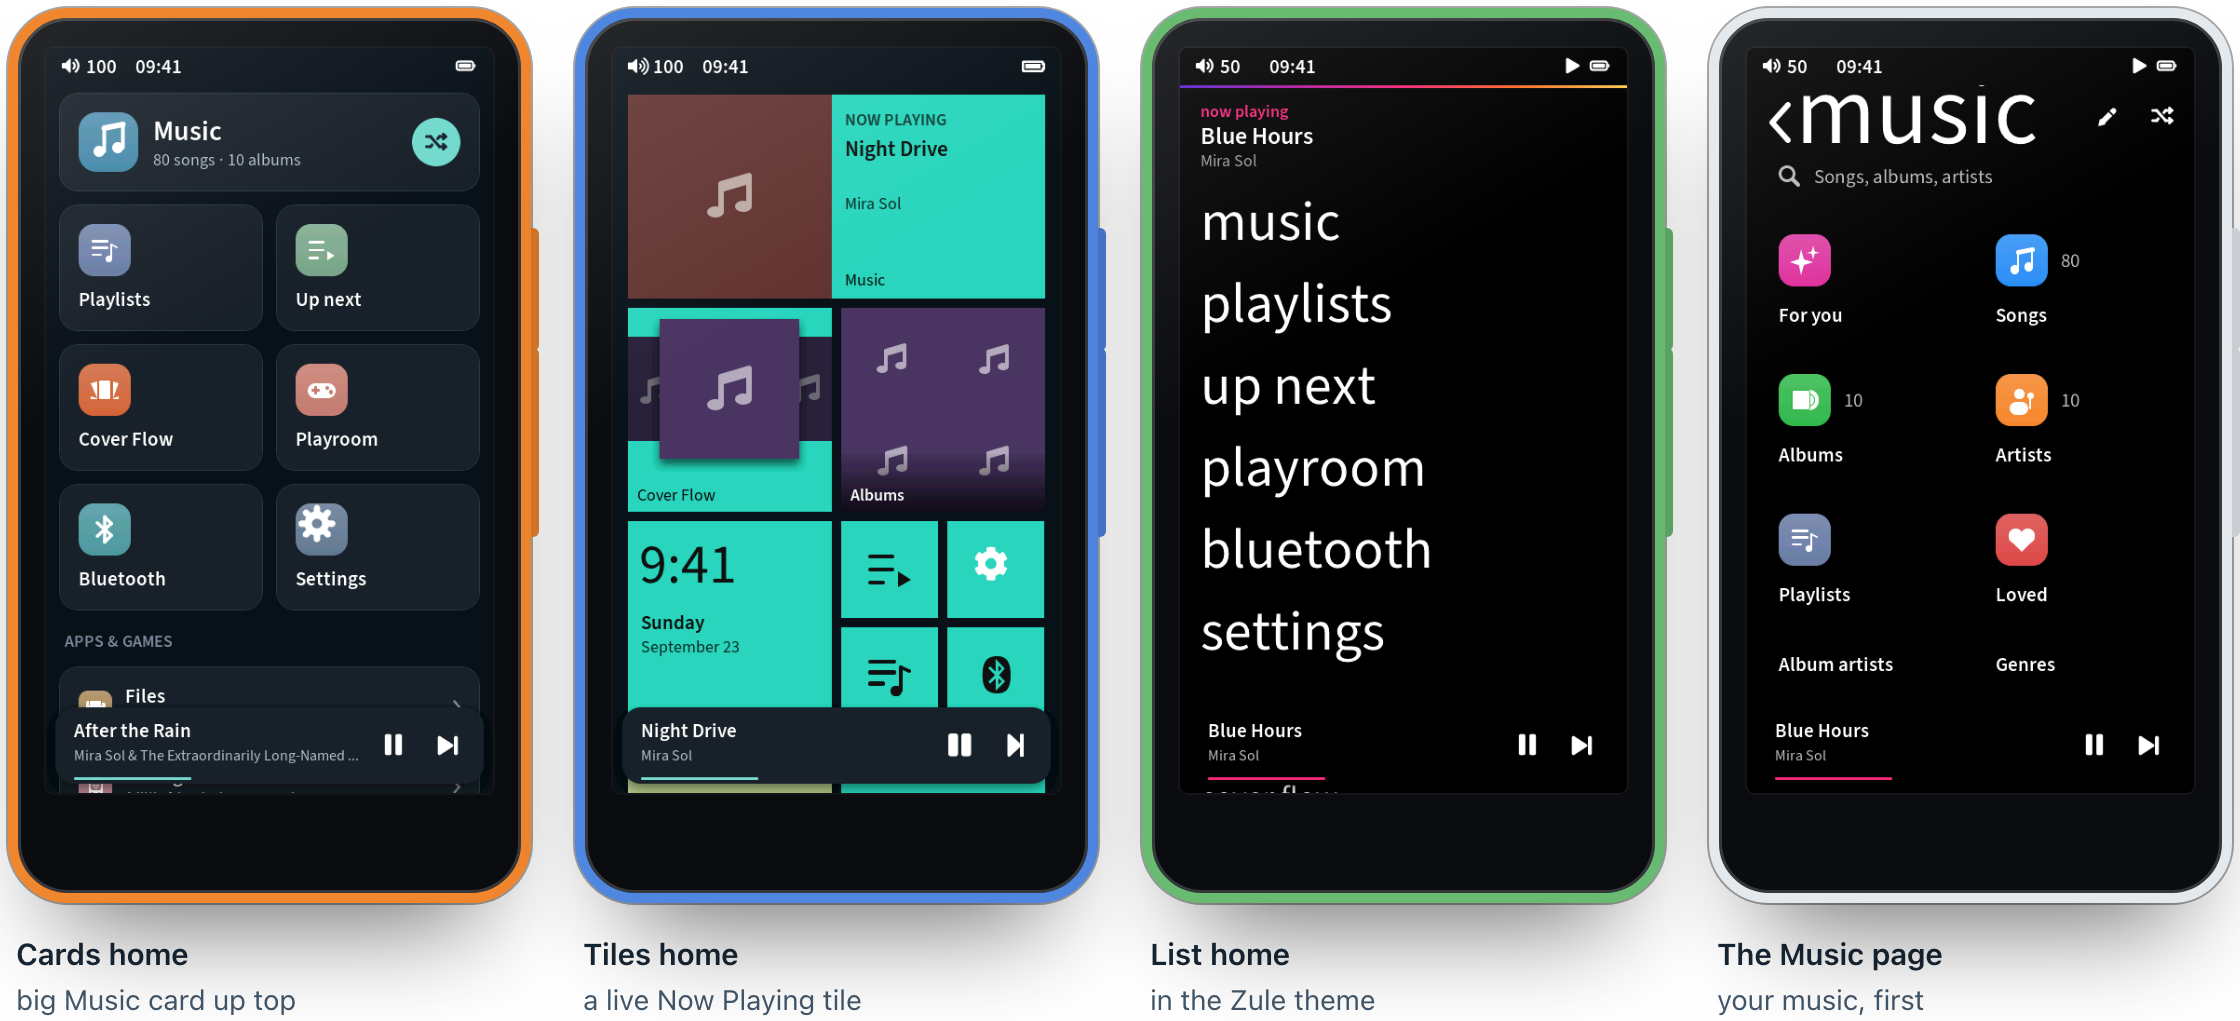
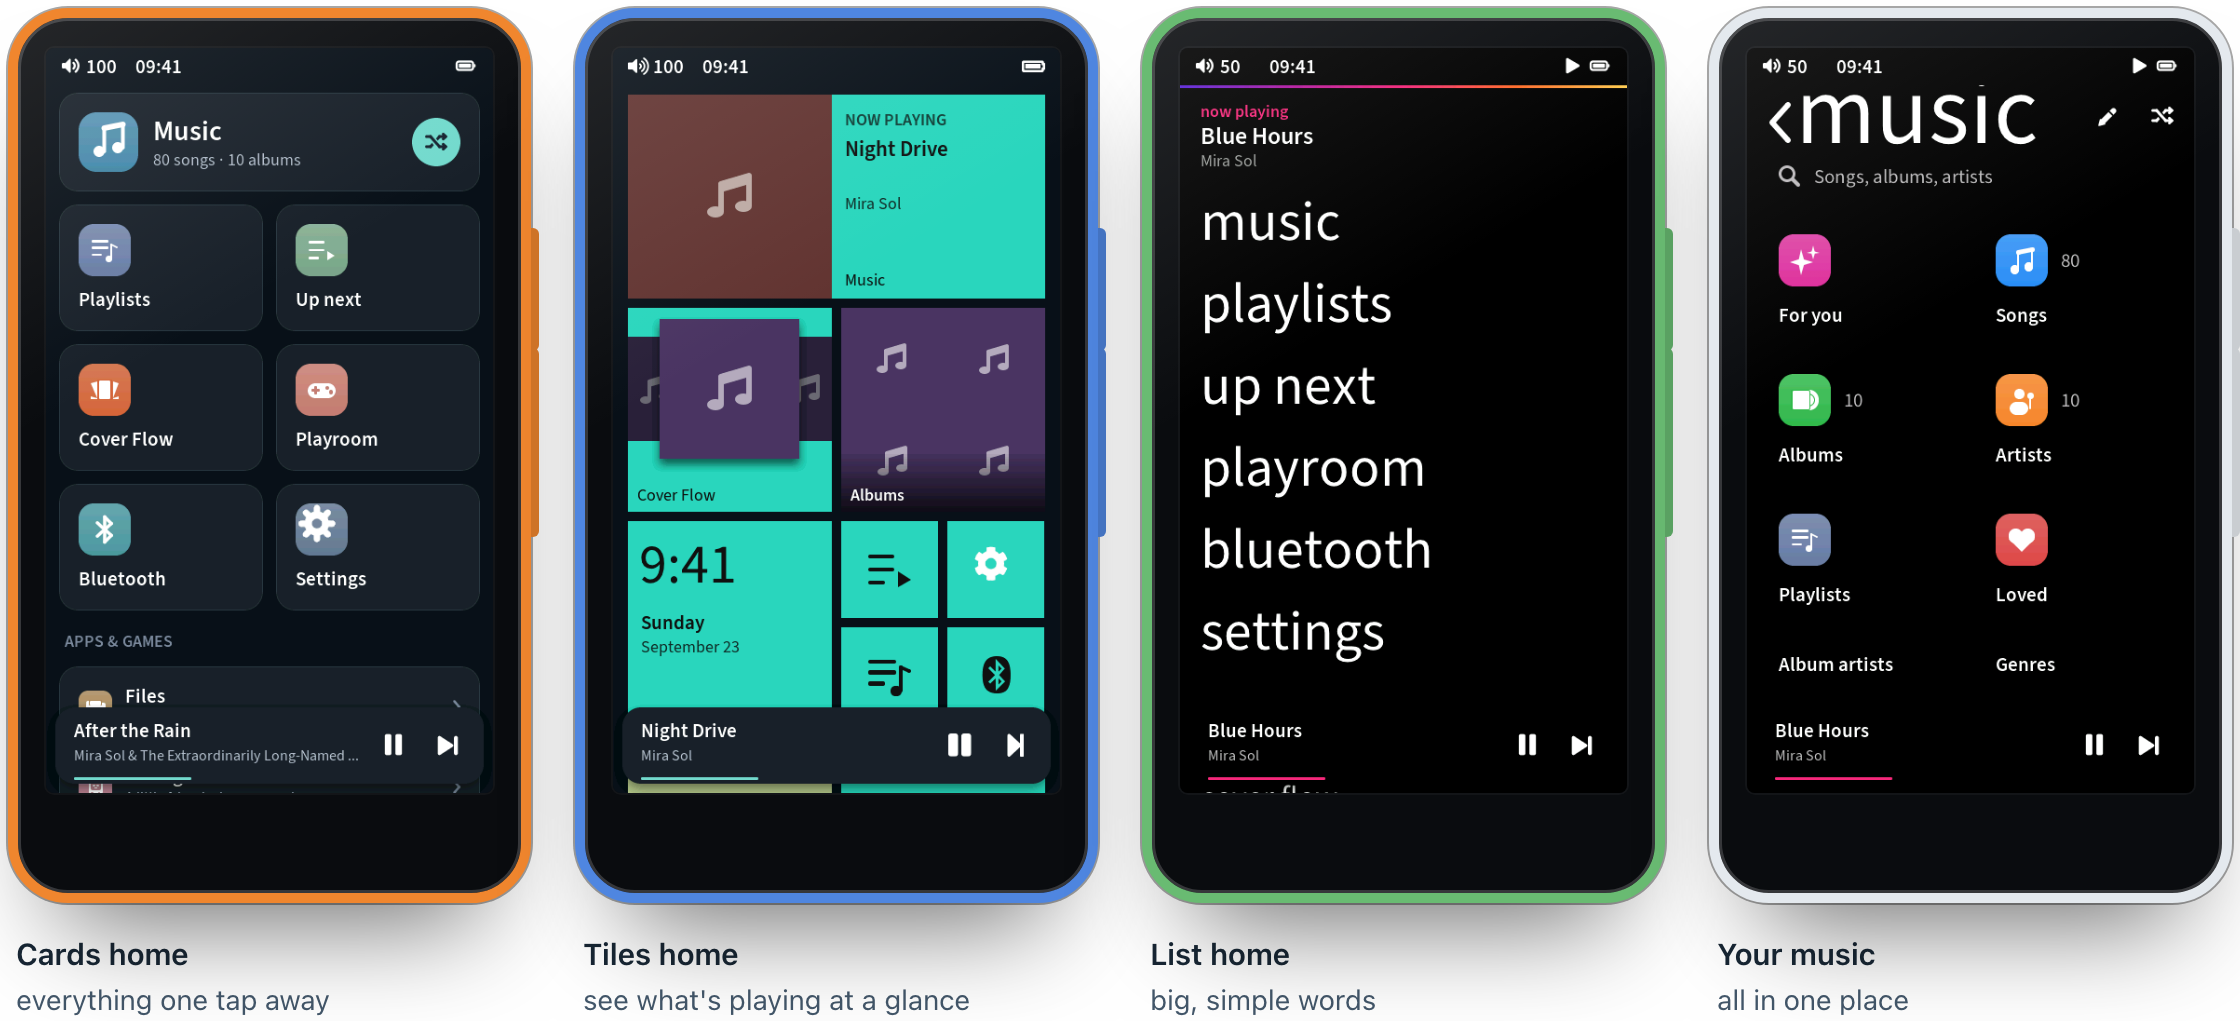
Front page: every caption in plain words

diff --git a/README.md b/README.md
@@ -23,12 +23,12 @@ Everything you'd want from a music player, and it's quick.
 
 <picture>
   <source media="(prefers-color-scheme: dark)" srcset="assets/fresh-dark.png">
-  <img src="assets/fresh-light.png" width="880" alt="What it does. Library: Super smooth, even with tens of thousands of songs. And it sorts properly: The Beatles live under B. Lyrics: Words light up as the song plays. Sound: A real equalizer, plus one-tap presets for your headphones. Radio: Thousands of stations, and any podcast you like. Audiobooks: Picks up right where you left off, with chapters and bookmarks. E-books too. Wireless: Bluetooth, AirPlay, Wi-Fi transfers, and your phone as a remote. Keyboard: Swipe to type, in 12 languages. Now playing: Big covers, with love, shuffle and repeat right there. Buttons: Hold to skip through a song. Press twice for a shortcut. Your look: Four themes, three home screens, any colour you like.">
+  <img src="assets/fresh-light.png" width="880" alt="What it does. Library: Super smooth, even with tens of thousands of songs. And "The Beatles" is filed under B, not T. Lyrics: Words light up as the song plays. Sound: A real equalizer, plus one-tap presets for your headphones. Radio: Thousands of stations, and any podcast you like. Audiobooks: Picks up right where you left off, with chapters and bookmarks. E-books too. Wireless: Bluetooth, AirPlay, send music over Wi-Fi, and use your phone as a remote. Keyboard: Swipe to type, in 12 languages. Now playing: Big covers, with love, shuffle and repeat right there. Buttons: Hold to skip through a song. Press twice for a shortcut. Your look: Four themes, three home screens, any colour you like.">
 </picture>
 
 <picture>
   <source media="(prefers-color-scheme: dark)" srcset="assets/menu-dark.png">
-  <img src="assets/menu-light.png" width="880" alt="Sliced thin: the little things, done right. Sorting: The Beatles under B. Track order: 2 comes before 10. Lyrics: from your files or online. Equalizer: shape it any way you like. Radio: reconnects by itself. Audiobooks: a speed for every book. Sleep timer: remembers how long you like. Remote: your phone. Home screen: tiles, cards or a list. Themes: four, in any colour. Languages: 7 to read, 12 to type. Key lock: Volume down + Power.">
+  <img src="assets/menu-light.png" width="880" alt="Sliced thin: the little things, done right. Smart sorting: "The Beatles" under B, not T. Track order: track 9, then track 10. Lyrics: from your files or online. Equalizer: shape it any way you like. Radio: comes back if Wi-Fi drops. Audiobooks: a speed for every book. Sleep timer: remembers how long you like. Phone remote: control it from your phone. Home screen: tiles, cards or a list. Themes: four, in any colour. Languages: 7 to read, 12 to type. Lock buttons: Volume down + Power.">
 </picture>
 
 Oh, and there are games. 2048, Sudoku, Snake, chess, a tiny pet, a music quiz,
@@ -36,17 +36,17 @@ even Doom and Game Boy. Not your thing? Hide them with one tap.
 
 ## the house special
 
-<img src="assets/special.png" width="880" alt="The house special, on a red and white checked tablecloth. Gabagool? Ova haaaa! Every Tiles home comes with one tile you didn't order. Tap it. You'll see. Not in the mood? You can hide it like any other tile. Nobody's offended. Much. Beside it, the Tiles home with the house special tile.">
+<img src="assets/special.png" width="880" alt="The house special, on a red and white checked tablecloth. Gabagool? Ova haaaa! Your home screen comes with one tile you didn't order. Tap it. You'll see. Not in the mood? Hide it like any other tile. Nobody's offended. Much.">
 
 ## today's specials
 
 New in 1.1: swipe through songs like a dating app and it learns your taste.
-Plus podcasts, e-books, a waveform you can scrub through, and your phone as a
-remote.
+Plus podcasts, e-books, a picture of the whole song you can tap to jump
+around, and your phone as a remote.
 
 <picture>
   <source media="(prefers-color-scheme: dark)" srcset="assets/case-new-dark.png">
-  <img src="assets/case-new-light.png" width="880" alt="Four new screens. Your taste: a song card to swipe, with undo, skip, keep and love. Waveform seek: Now Playing with the song drawn as a waveform. Podcasts: a show's page with Play, Refresh and its episodes. Your server: an album from Navidrome with Play and Shuffle.">
+  <img src="assets/case-new-light.png" width="880" alt="Your taste: swipe songs, it learns what you like. Song waveform: tap anywhere to jump there. Podcasts: find and follow any show. Your own server: stream from your home computer.">
 </picture>
 
 ## from the display case
@@ -55,17 +55,17 @@ Real screens from the real thing. No mock-ups.
 
 <picture>
   <source media="(prefers-color-scheme: dark)" srcset="assets/case-homes-dark.png">
-  <img src="assets/case-homes-light.png" width="880" alt="Three homes and the Music page. Cards: a big Music card, then Playlists, Up next, Cover Flow, Playroom, Bluetooth and Settings. Tiles: a live Now Playing tile, Cover Flow, Albums, a clock and shortcuts. List: big lowercase words in the black Zule theme. The Music page: For you, Songs, Albums, Artists, Playlists, Loved, Genres and Years.">
+  <img src="assets/case-homes-light.png" width="880" alt="Cards home: everything one tap away. Tiles home: see what's playing at a glance. List home: big, simple words. Your music: all in one place.">
 </picture>
 
 <picture>
   <source media="(prefers-color-scheme: dark)" srcset="assets/case-listen-dark.png">
-  <img src="assets/case-listen-light.png" width="880" alt="Listening. Now Playing with love, a FLAC badge, shuffle, repeat and volume. Cover Flow, flipping through album covers. An album page washed in its cover's colour. The parametric equalizer with a ten-band curve and an AutoEq profile.">
+  <img src="assets/case-listen-light.png" width="880" alt="Now Playing: big cover, easy controls. Cover Flow: flip through your albums. Albums: take on the cover's colours. Equalizer: presets for your headphones.">
 </picture>
 
 <picture>
   <source media="(prefers-color-scheme: dark)" srcset="assets/case-more-dark.png">
-  <img src="assets/case-more-light.png" width="880" alt="And more. The e-book reader in its sepia look. Arranging the control centre, with a handle to drag each shortcut. Glide typing with a trail across the keyboard. The Arcade listing Game Boy cartridges and Doom.">
+  <img src="assets/case-more-light.png" width="880" alt="E-books: read books on your player. Quick settings: in the order you like. Swipe typing: in 12 languages. Retro games: bring your own.">
 </picture>
 
 ## we keep the books
@@ -131,7 +131,7 @@ All the code will be here for anyone to read.
 <br>
 
 It's how they say "capicola" in *The Sopranos*. Find the house special tile on
-the Tiles home and give it a tap. Ova haaaa!
+your home screen and give it a tap. Ova haaaa!
 </details>
 
 <details>
